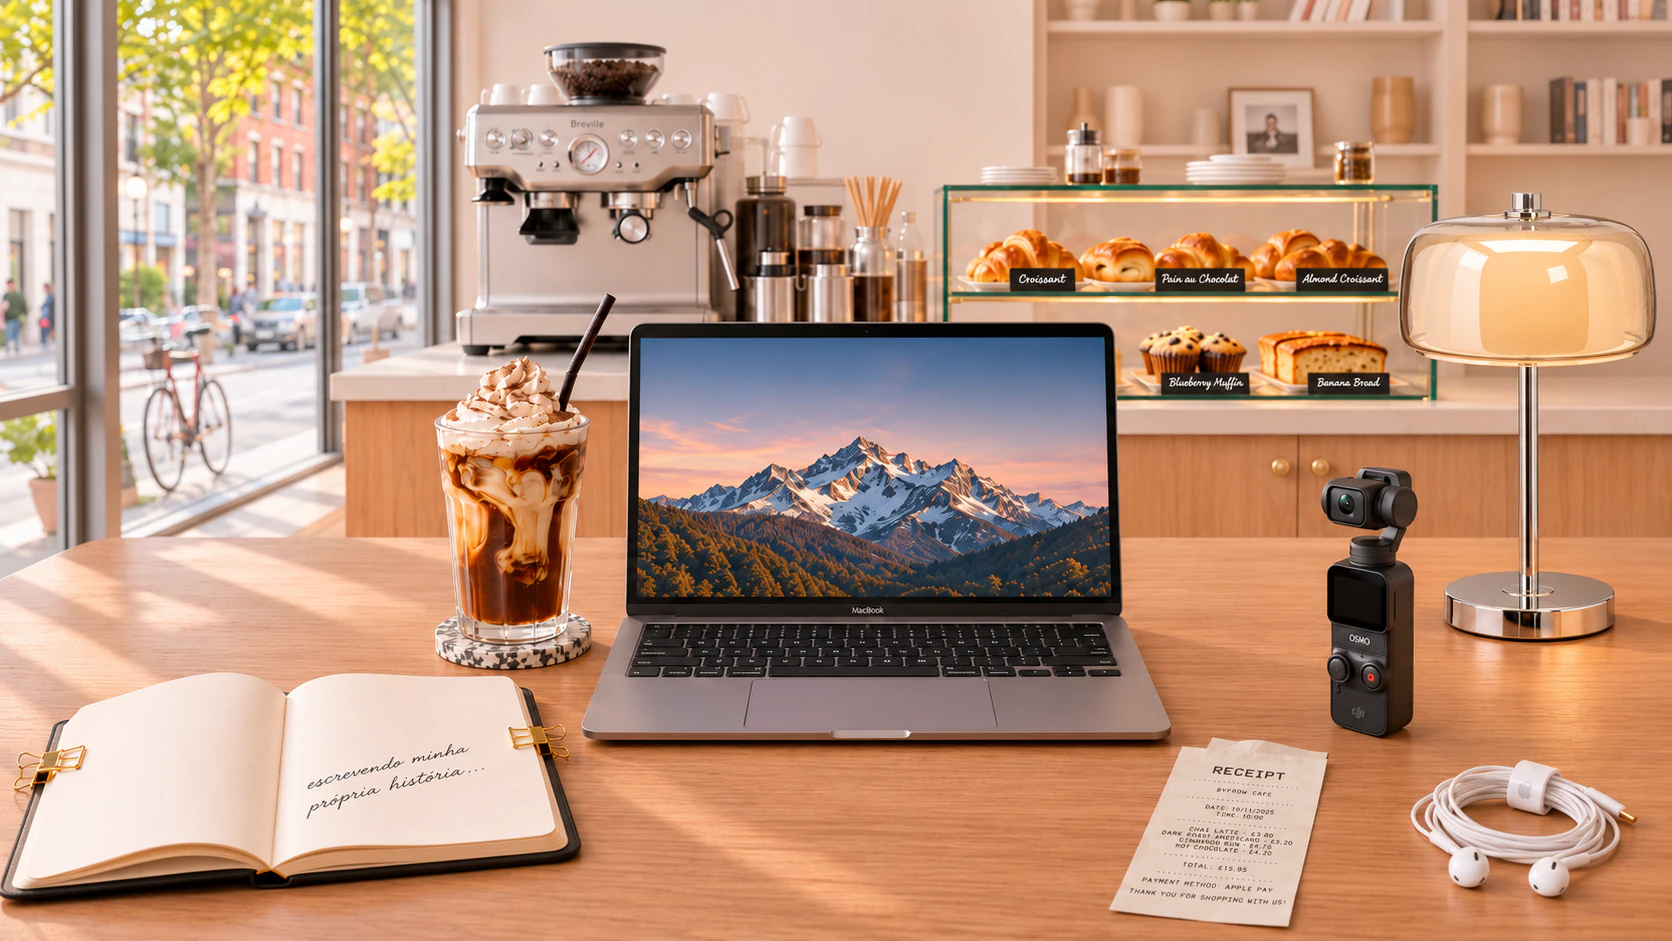
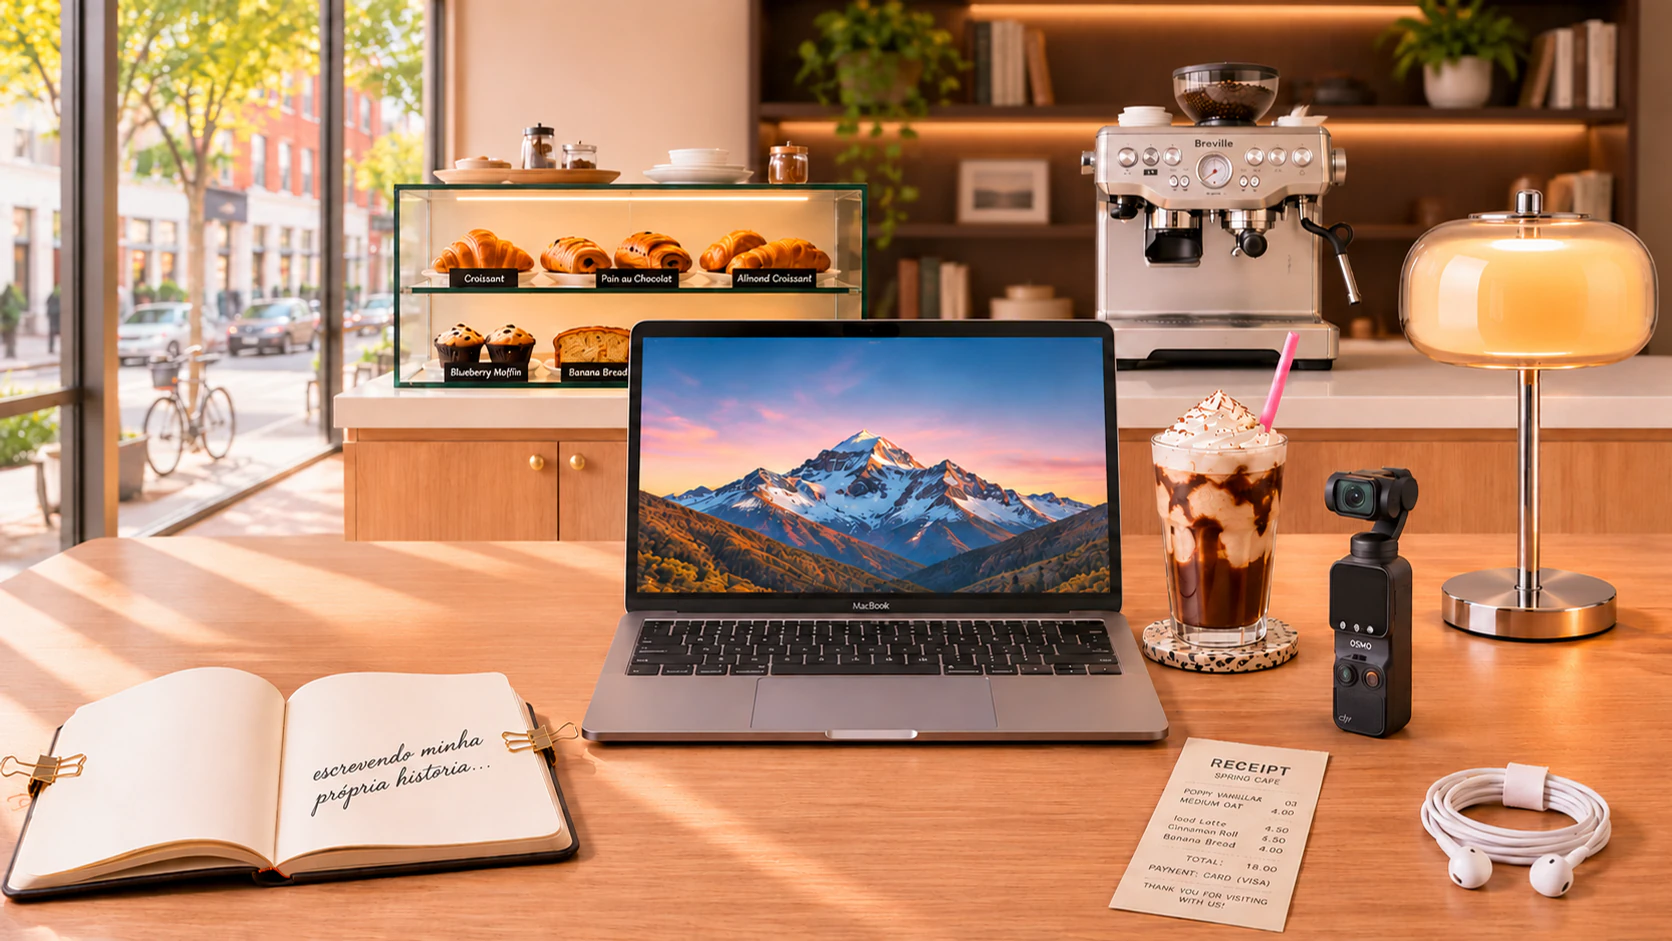
Atualiza foto do cozy corner (nova versao sunset) e remede posicao da maquina de cafe e do drink

diff --git a/src/components/CozyCorner/CozyCorner.tsx b/src/components/CozyCorner/CozyCorner.tsx
@@ -56,8 +56,12 @@ const LAPTOP_SCREEN_CORNERS = {
  * mão, legível sem nenhuma camada por cima — ver conversa "remover o blur
  * do caderno".
  */
-const DRINK_ZONE = { cx: 32.04, cy: 50.96, w: 17.96, h: 46.71 };
-const STEAM_POS = { left: 35.75, top: 9 };
+// reposicionados depois da foto nova (2026-11-09, "sunset v2"): o drink e a
+// máquina de café trocaram de lado na nova composição (antes à esquerda do
+// laptop, agora à direita, perto do abajur/DJI) — remedido com grade de
+// referência em cima da foto nova, não é mais o mesmo ponto da foto anterior.
+const DRINK_ZONE = { cx: 74, cy: 50, w: 16, h: 46 };
+const STEAM_POS = { left: 72, top: 10 };
 
 // o mapa (e o MapLibre) só é baixado quando alguém clica na máquina de café.
 const CozyMapModal = dynamic(() => import("@/components/CozyMap/CozyMapModal"), { ssr: false });

diff --git a/src/components/CozyCorner/hotspots.ts b/src/components/CozyCorner/hotspots.ts
@@ -18,10 +18,14 @@ export const COZY_CORNER_HOTSPOTS: HotspotDef[] = [
     id: "breville",
     label: "Máquina de café",
     destination: "Mapa de cafeterias favoritas",
-    cx: 35.75,
-    cy: 21.4,
-    w: 17.4,
-    h: 33.8,
+    // reposicionado depois da foto nova (2026-11-09, "sunset v2"): a máquina
+    // trocou de lado na nova composição (esquerda → direita, perto do
+    // abajur) — remedido com grade de referência em cima da foto nova, não
+    // é mais o mesmo ponto da foto anterior.
+    cx: 72,
+    cy: 24,
+    w: 24,
+    h: 32,
     enabled: HAS_REAL_PLACES,
   },
   {
